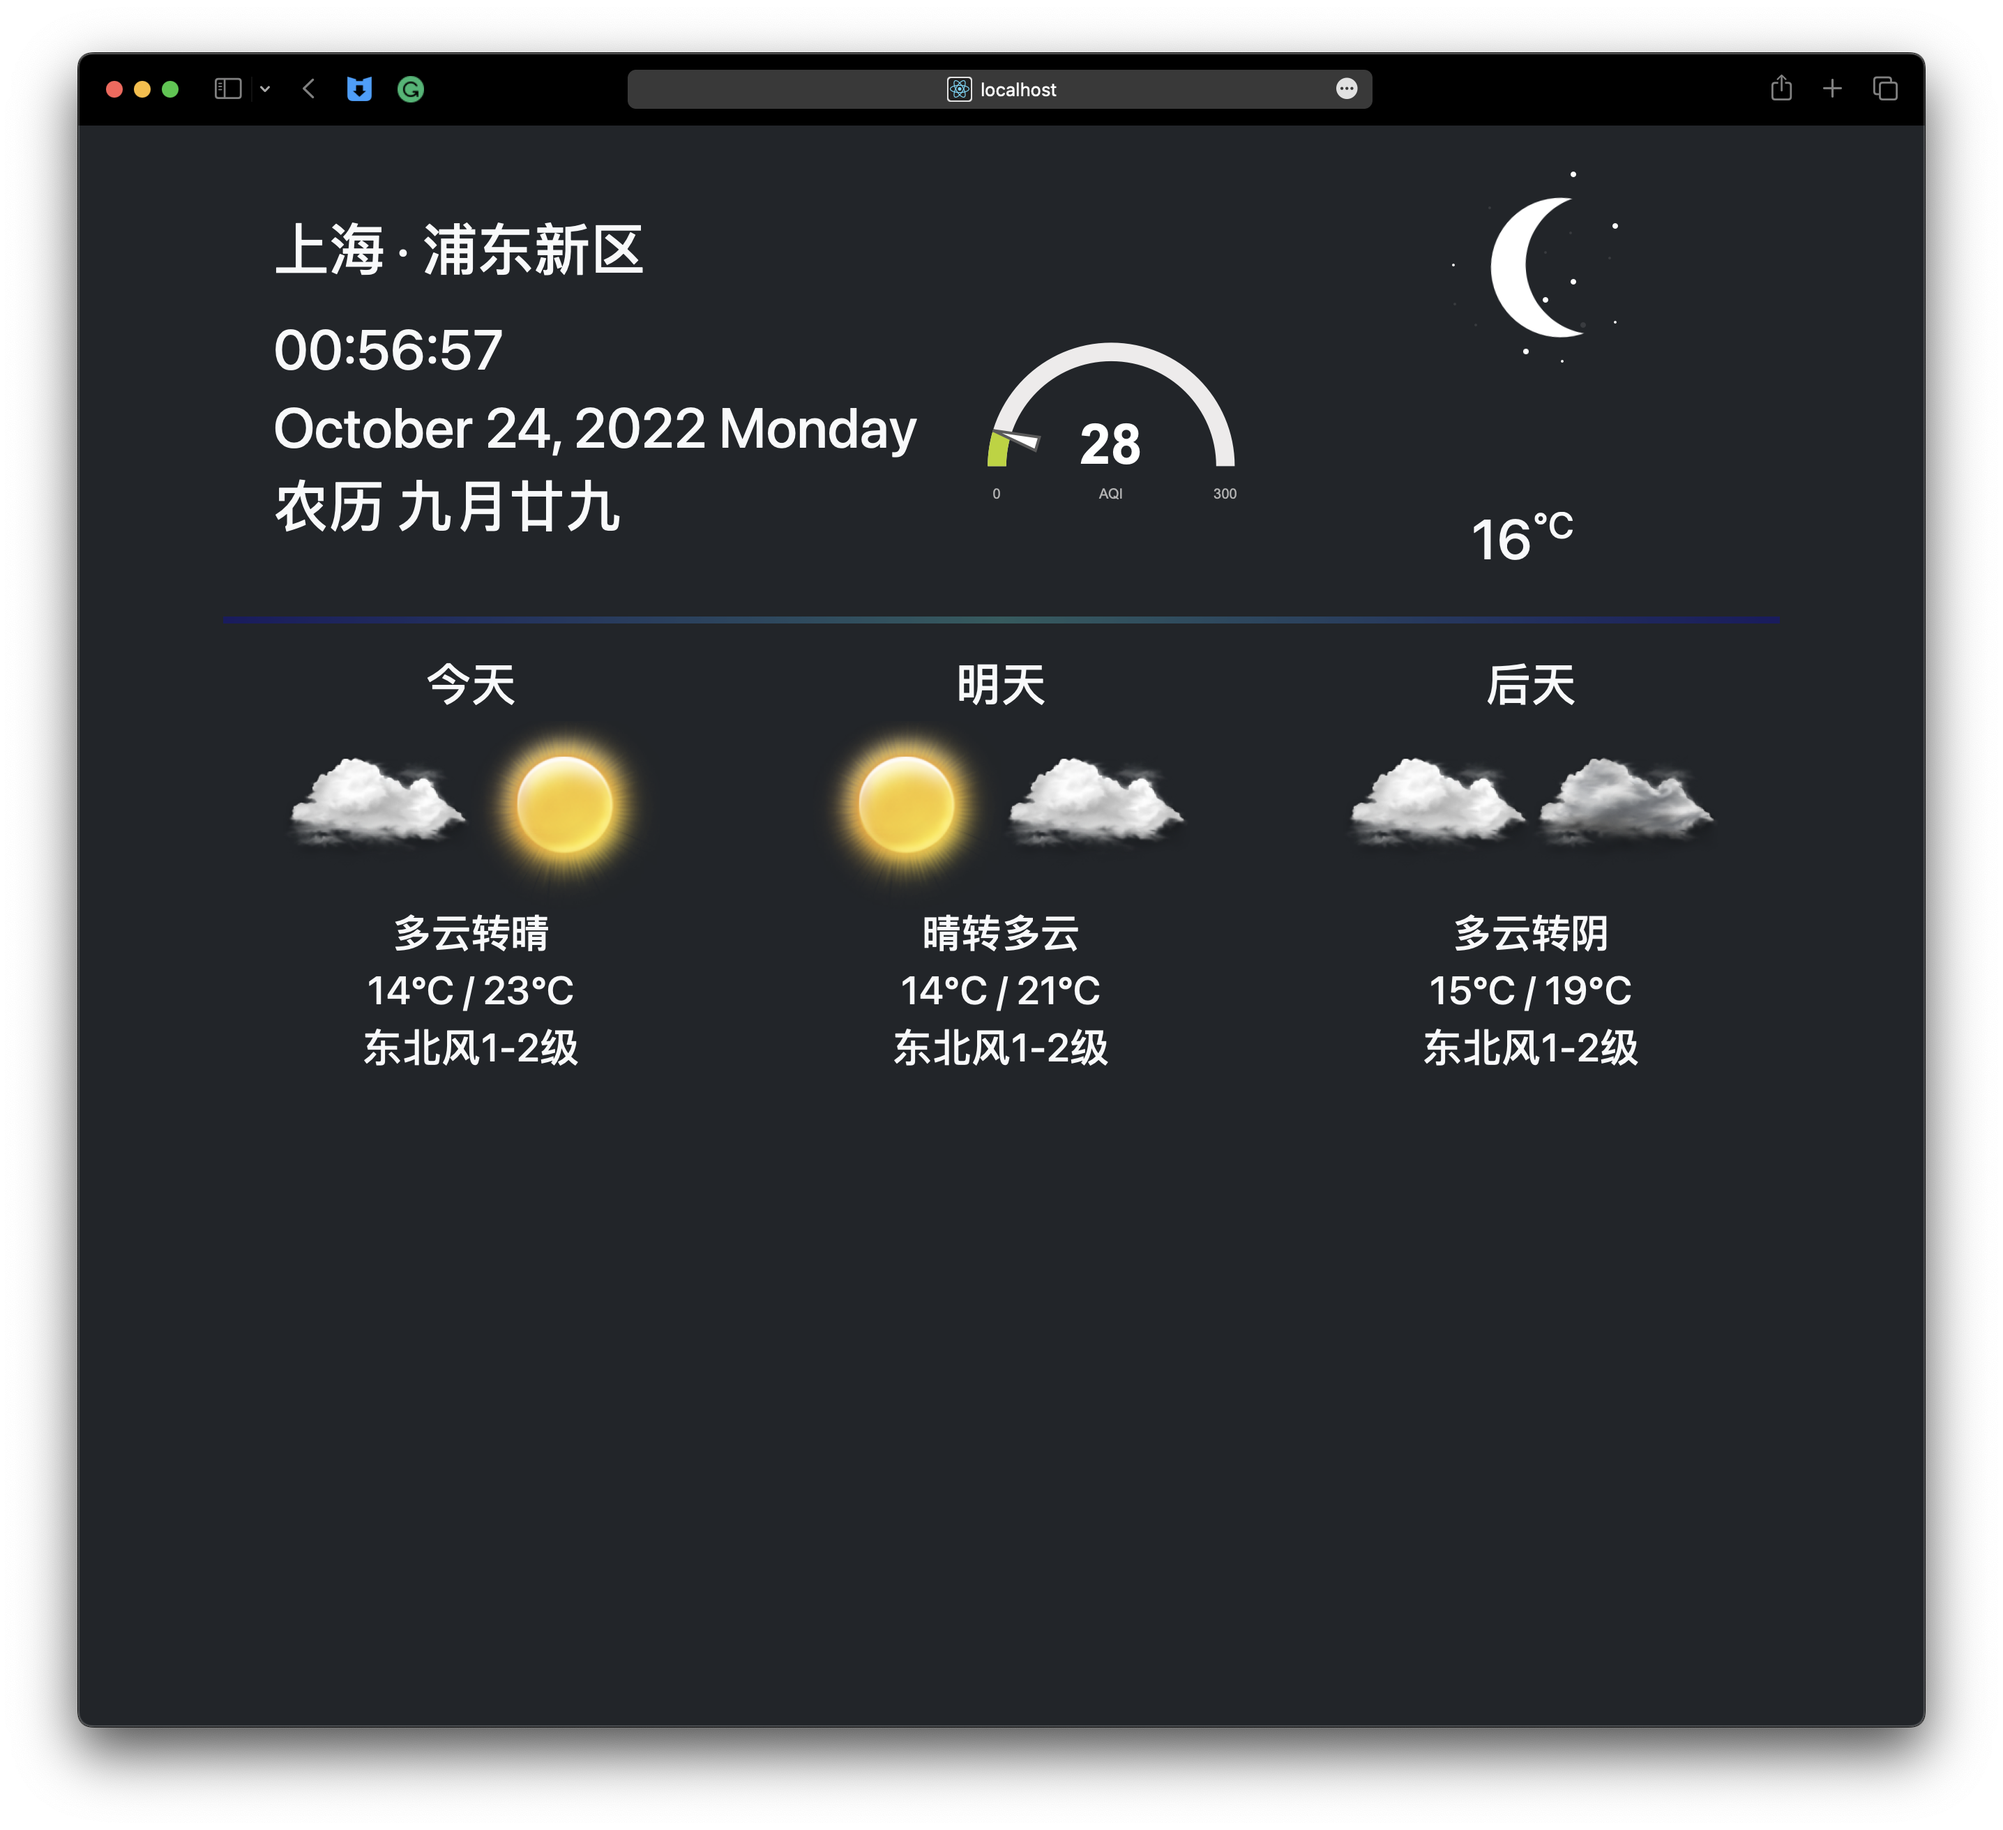
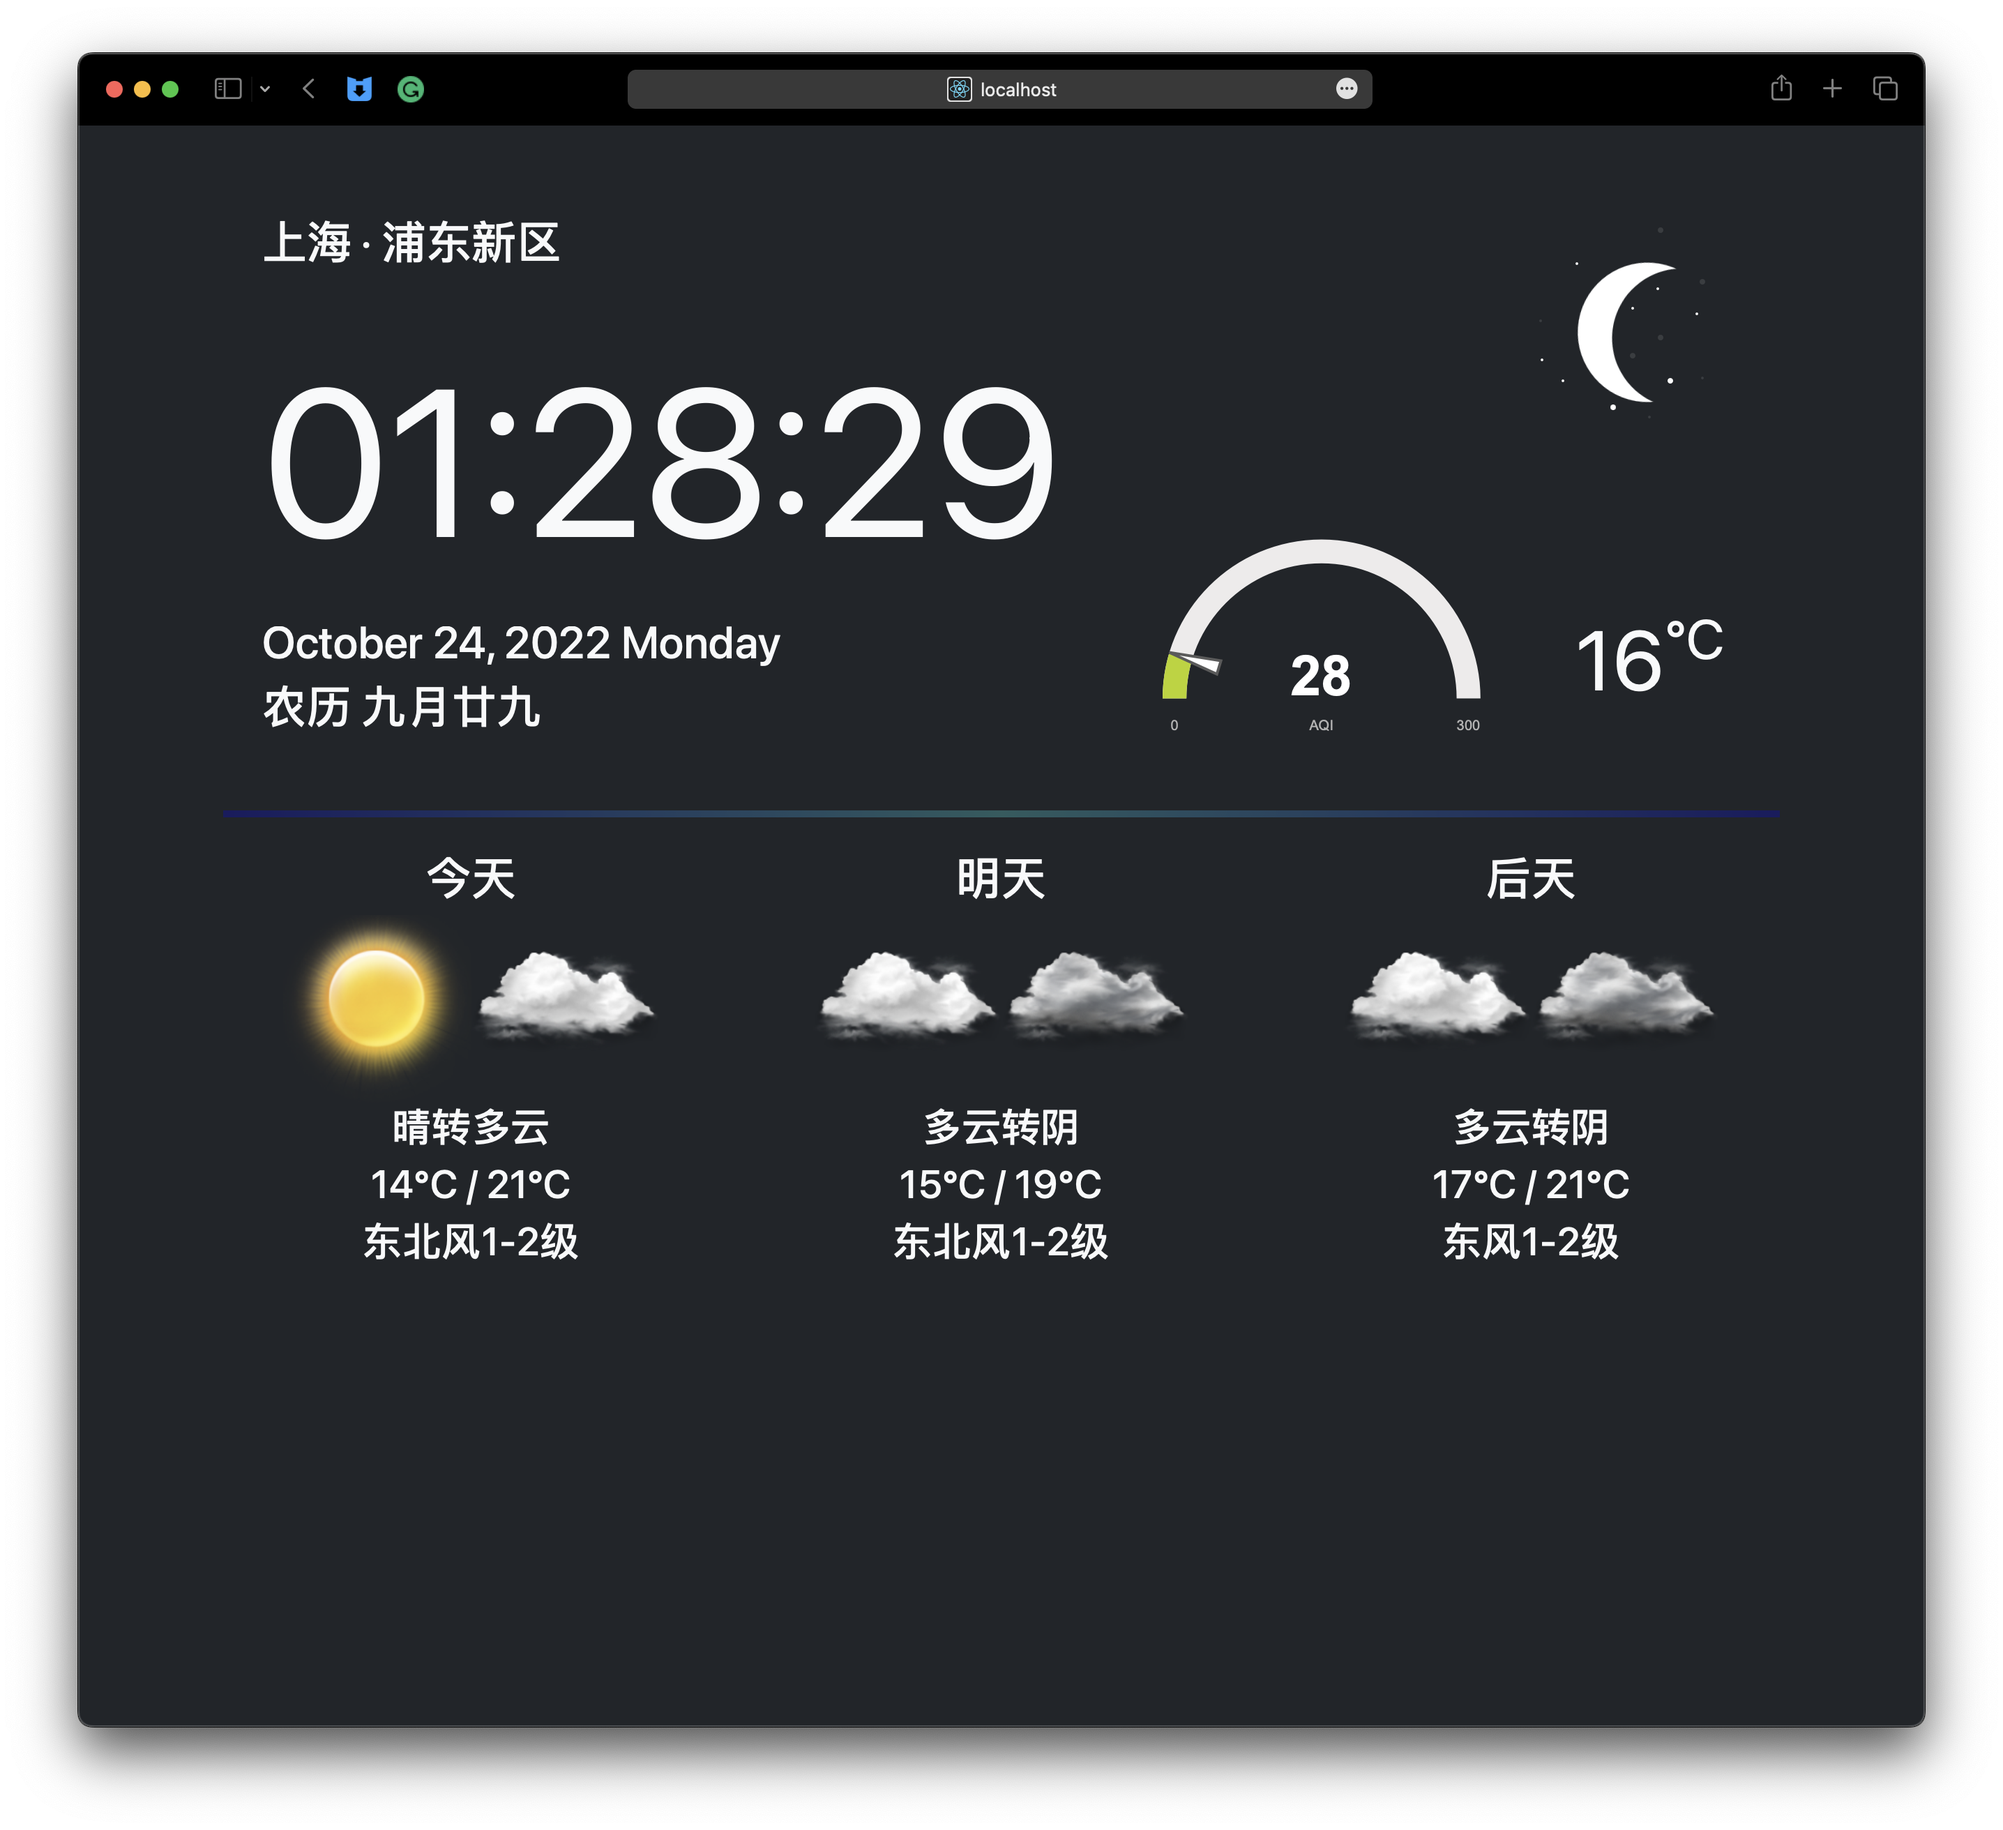
fix css

Changed region(s): [[0.124, 0.125, 0.8677, 0.6875], [0.7437, 0.0938, 0.8367, 0.2188], [0.8057, 0.125, 0.8367, 0.1562]]

diff --git a/src/Components/TempWeatherIcon.js b/src/Components/TempWeatherIcon.js
@@ -8,10 +8,10 @@ class TempWeatherIcon extends Component {
     render() {
         return (
             <div className="col-sm-2 row">
-                <div className="d-flex align-items-center justify-content-center mt-5 pt-5 me-5 pe-5">
+                <div className="d-inline-flex align-self-center">
                     <div className={this.props.weather_icon} id="weather_icon"></div>
                 </div>
-                <div className="h1 align-self-end mb-5 pb-5" id="temperature-now">
+                <div className="h1 align-self-end mb-5" id="temperature-now">
                     {this.props.temp}
                     <sup>
                         <small>°C</small>

diff --git a/src/css/App.css b/src/css/App.css
@@ -14,3 +14,8 @@ hr {
     font-weight: 400;
     font-size: 150px;
 }
+
+#temperature-now {
+    font-weight: 400;
+    font-size: 60px;
+}

diff --git a/src/css/weather.css b/src/css/weather.css
@@ -312,7 +312,7 @@
     opacity: 1;
     position: absolute;
     /*left: 777px;*/
-    top: 160px;
+    top: 200px;
 }
 
 .starry:after {
